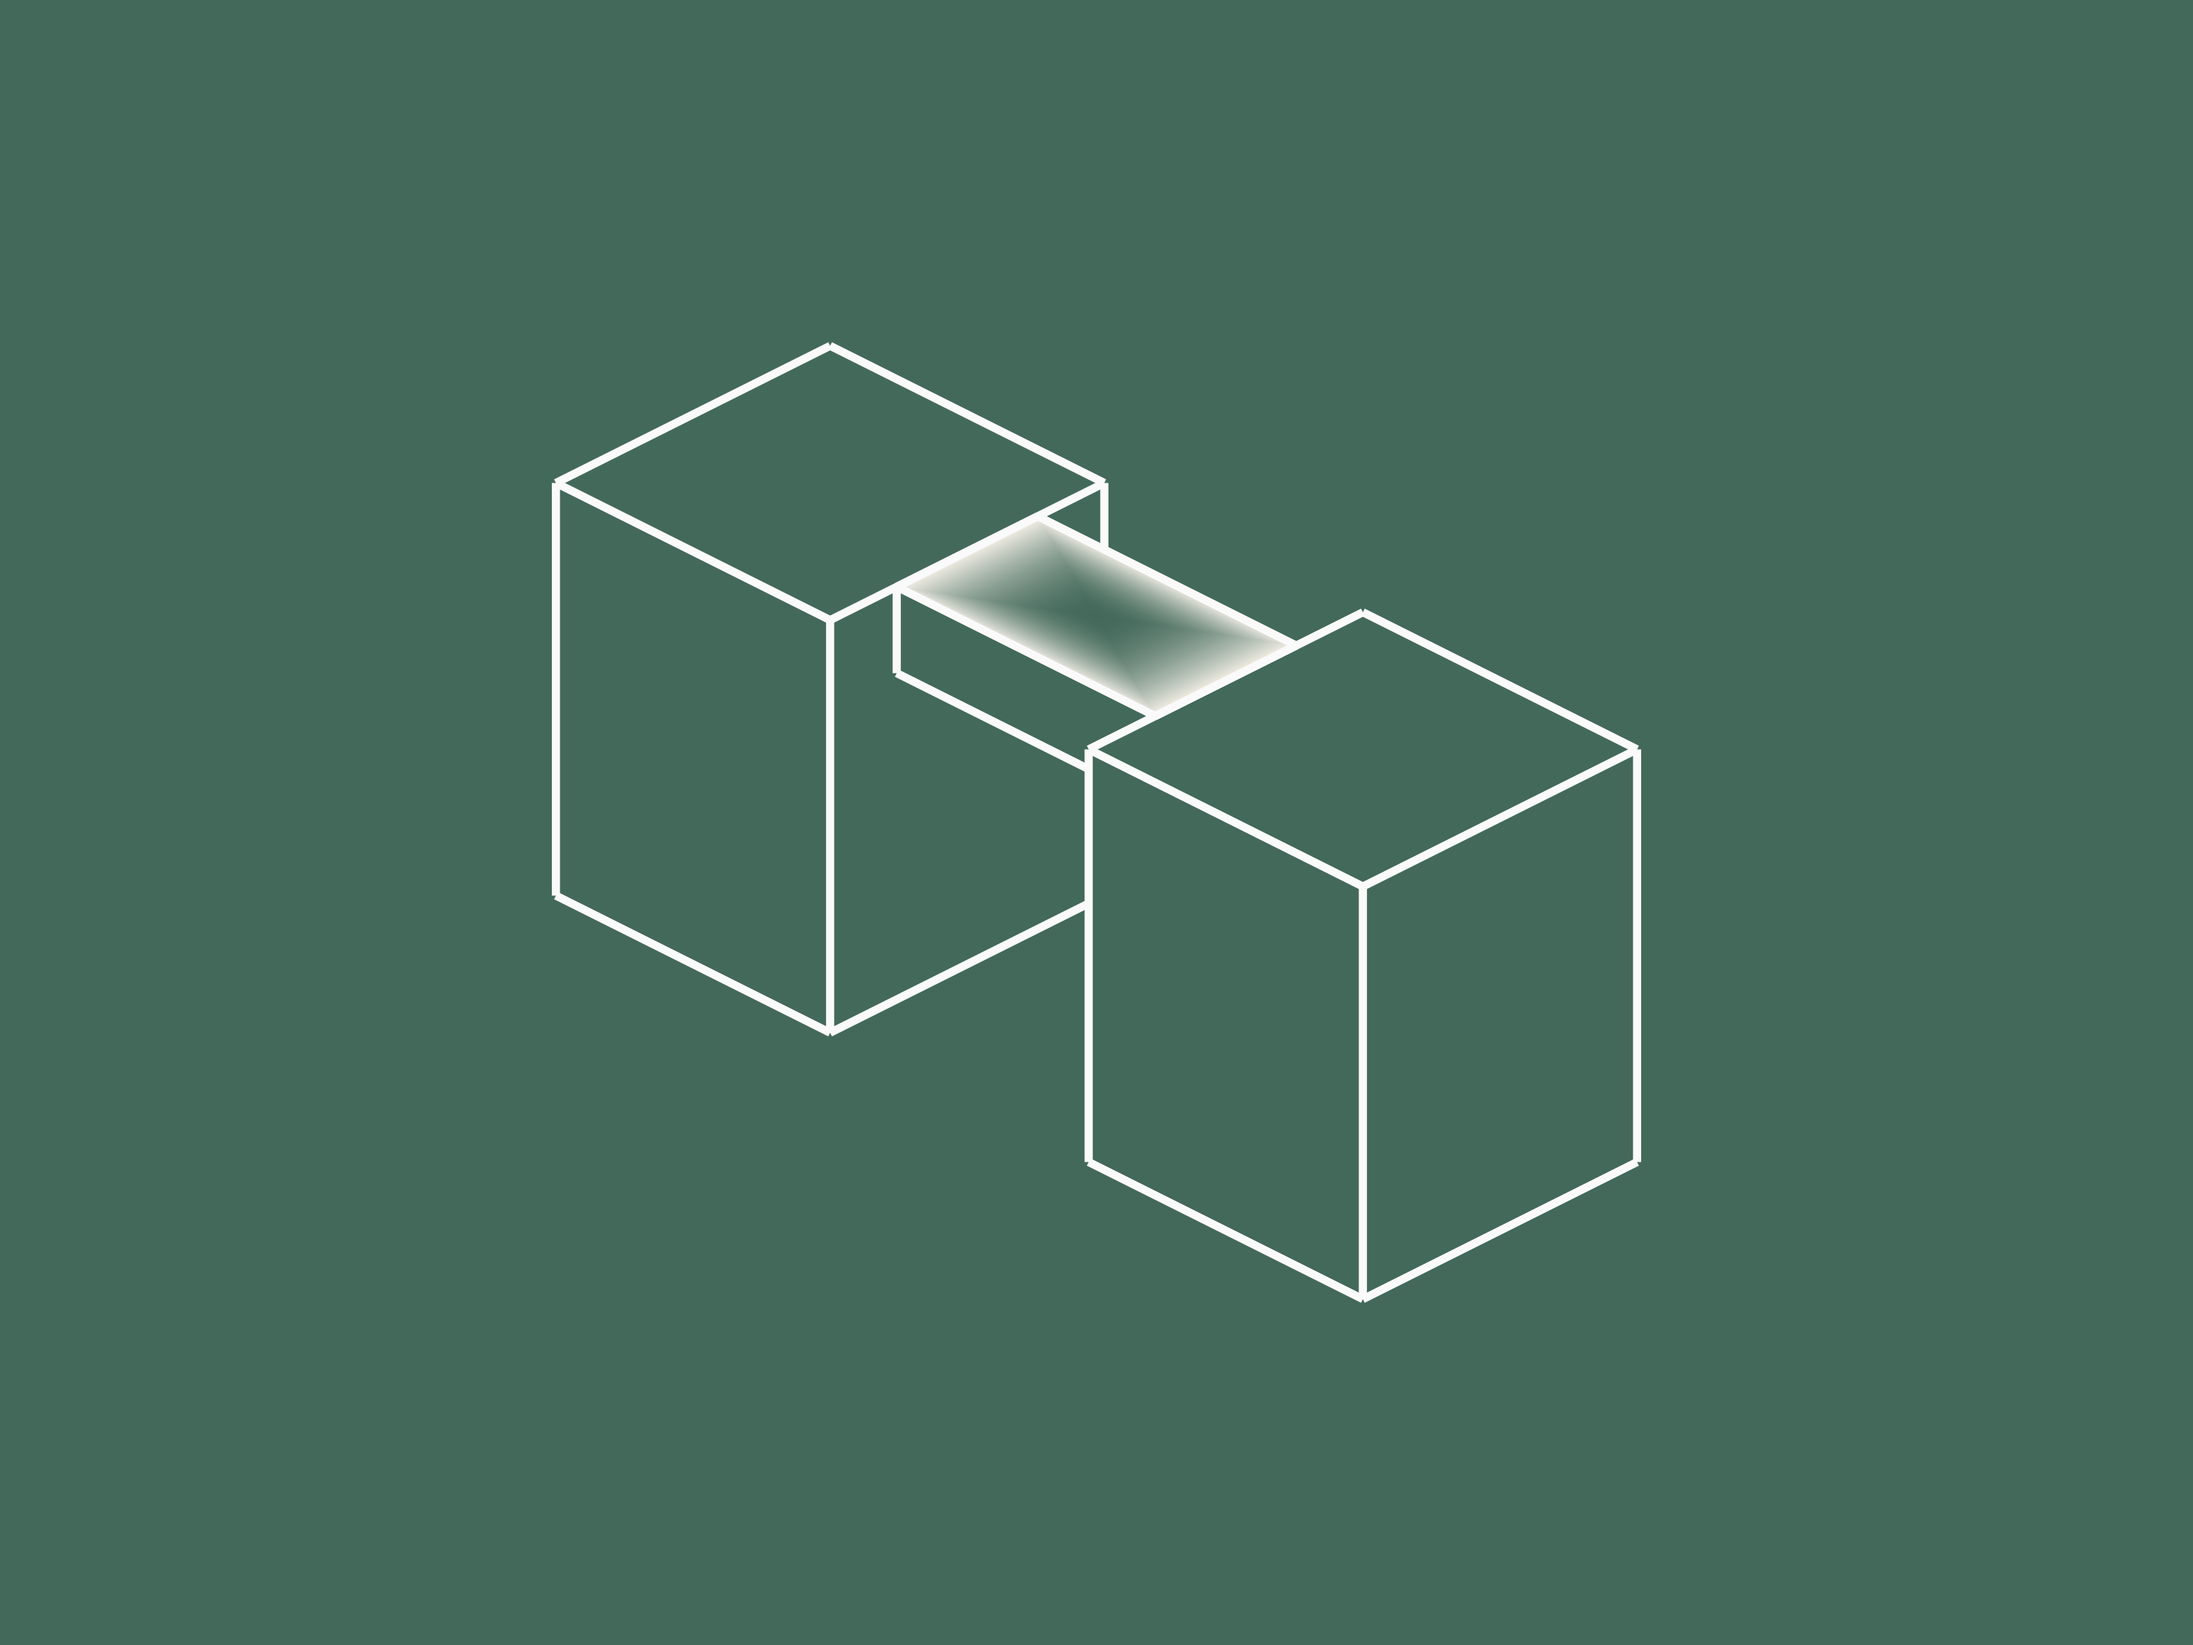
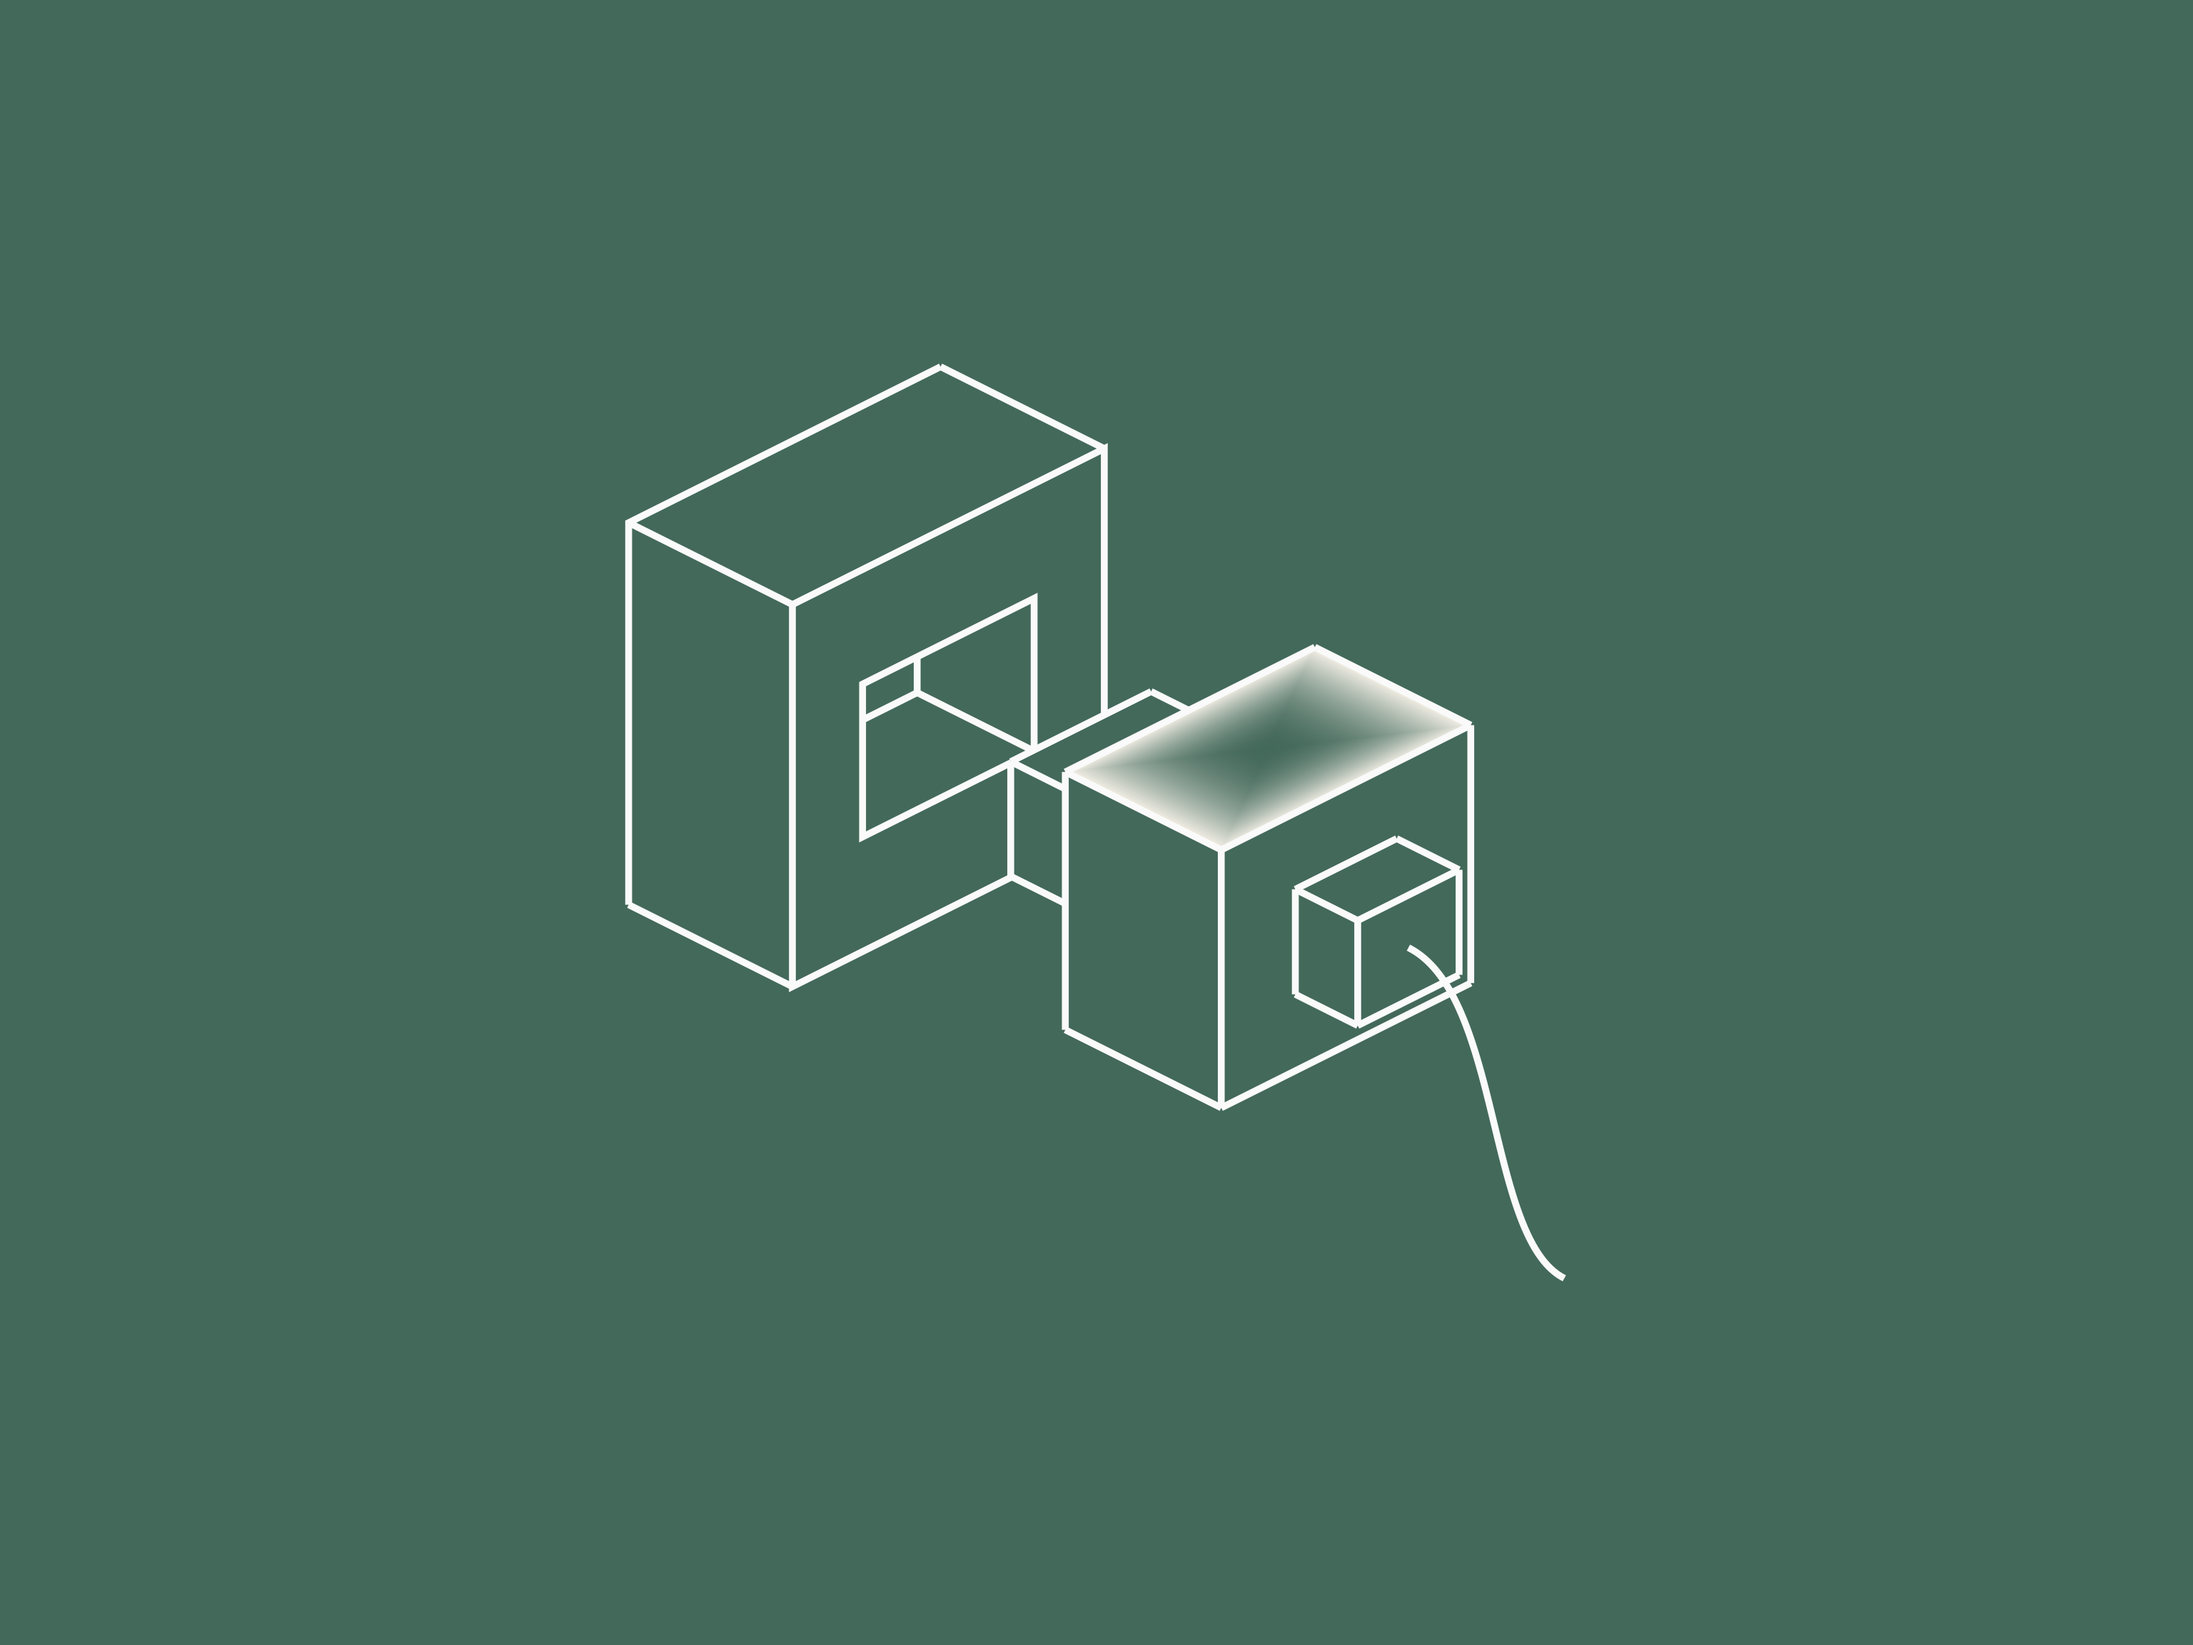
Clarify production cover with a fitted plug and socket

Changed region(s): [[0.25, 0.2188, 0.75, 0.8125], [0.5312, 0.7188, 0.5625, 0.75]]

diff --git a/docs/design/blog-illustrations-2026-11-17/the-demo-was-never-the-hard-part/decision.md b/docs/design/blog-illustrations-2026-11-17/the-demo-was-never-the-hard-part/decision.md
@@ -1,13 +1,13 @@
 # The demo was never the hard part
 
-The article is about the systems and operational work between a successful model response and a finished business task. Two complete systems are joined by one fitted Iris bridge: the connection is the work that matters.
+The article says that integration is the product: producing model output is only useful when it connects to the systems where work finishes. A recognizable cable plug and matching recessed socket replace the earlier abstract bridge.
 
-Source: `src/content/blog/bodies.json`, key `the-demo-was-never-the-hard-part`, read with its title and summary. Visual source: the user-requested AtomsAI Illustration Skill v2, current local gallery renderer, reference `built-in-your-stack` for framing only. The geometry is new and uses three boxes rather than the reference cube grid.
+The two assemblies share a single X-axis. The male tongue is 28 × 24 × 36 units. The socket opening is 32 × 44, with a real 30-unit-deep cavity formed by four interior walls and a recessed back. The 24 × 36 tongue therefore fits with 4 units of total clearance per cross-section dimension and 2 units at the rear when fully inserted. The front face contains a real rectangular hole; there is no fake opening drawn over a solid face. A strain relief meets the plug housing's rear face exactly, and the cable curve begins at the relief's center and leaves along the connector axis.
 
 ## Review
 
-Selected the neutral Dark export. Inspected the eight-view contact sheet at its 300 px illustration viewport beside the current Dark and Light reference. Both system blocks remain complete, the connector meets the receiving faces exactly, and there is one diamond-fade highlight. The bridge shares the systems' top height, making the relationship readable without an ambiguous overlap. An earlier lower bridge was rejected because its projected highlight read as crossing a receiving face; the final construction aligns their top surfaces.
+Read the complete article in `src/content/blog/bodies.json`. Used the requested current illustration renderer and construction primitives; `modular` supplies framing only. The user requested recognizable, physically coherent objects and slightly finer linework while retaining the approved theme system. The root agent applies the final Paper/Cream colors and 1.6-unit presentation line weight.
 
-Oblique, back, and underside exports retain equal system dimensions, connected endpoints and real bridge depth. The one-sided highlight correctly disappears when viewed from underneath. Hidden linework is omitted, not dimmed. No duplicate strokes, mesh edges, text, external images or extraneous rays were observed. The thin outlines and quiet space match the current reference. Mechanical checks and recipe assertions pass, including exact face contact and bridge dimensions.
+Inspected all eight Dark/Light, neutral/oblique/back/underside exports. Selected the neutral Dark geometry. The socket has complete outer walls and a readable opening, with interior edges revealed only through the hole. The plug's tongue points into the matching aperture, the two assemblies remain separate, and the cable is visibly attached. Back and underside views confirm the solid housing, recessed cavity, tongue attachment and strain relief. The top housing face is the single highlighted part; it correctly disappears from underneath.
 
-The supplied renderer applies the reference fit once. The editable recipe and transparent SVG masters are the deliverables; parent integration adds the editorial field and checks actual page crops. No interactive motion or p5 behavior was tested or requested for these static thumbnails.
+Assertions verify the cavity opening and depth, tongue clearance, exact face contact at the housing and relief, cable endpoint, and insertion travel with rear clearance. All eight mechanical checks pass. No text, decorative pins, floating cable endpoint, impossible intersections, duplicate linework or mesh tessellation was observed. The original-renderer Iris exports approve geometry only; final theme and page crops are handled by the parent. Static illustration only; no motion testing was required.
